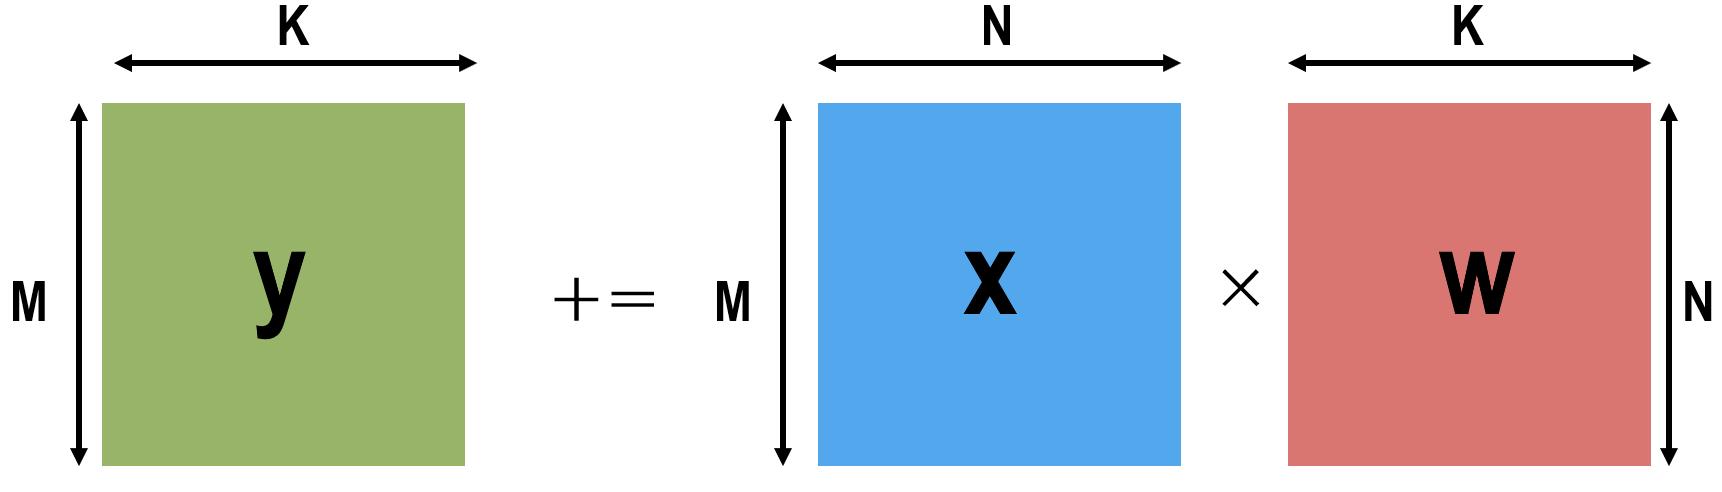
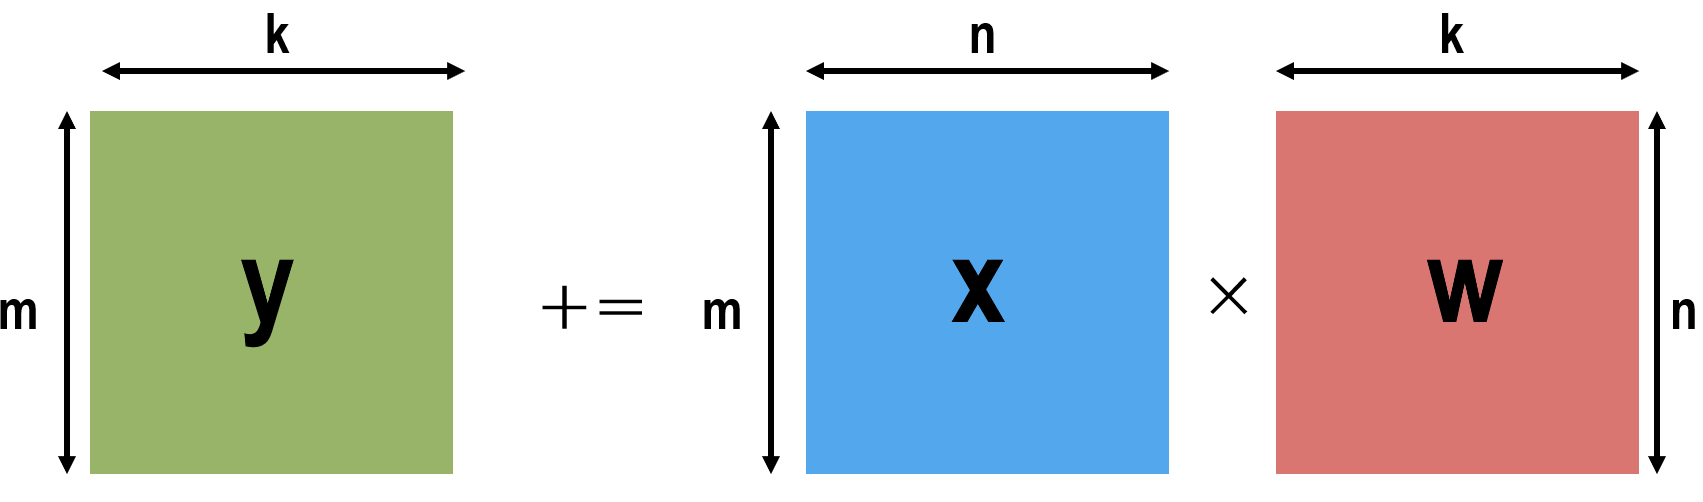
[SoftHier] update softhier exe

diff --git a/README.md b/README.md
@@ -772,12 +772,14 @@ int main()
 }
 ```
 
-please try `make trace` to generate `perfetto.json` file inside the `/app/PartII/B.1`, view them on [Perfetto UI](https://ui.perfetto.dev/) in your browser.
+Please try `make trace` to generate the `perfetto.json` file inside `/app/PartII/B.1`, and view it on [Perfetto UI](https://ui.perfetto.dev/) in your browser. Below is an example screenshot. In this exercise, we only focus on the workload region in the middle. Please zoom in on this part to view the trace details.
 
-❓ **Question: What did you observe? Is the RedMule in Cluster 0 fully utilized? If not, why are the RedMule units sometimes idle? Do you have any ideas to improve the utilization?**
+<img src="imgs/trace.png">
+
+❓ **Question: What did you observe? Is the RedMule in Cluster 0 fully utilized during the workload region? If not, why are the RedMule units sometimes idle? Do you have any ideas for improving the utilization?**
 
 
-<!-- <span style="color:red">**Caution:** Exercises II-B.2, II-C.1, and II-C.2 are bonus exercises that take a deeper dive into performance engineering for tile-based many-PE architecture programming. Beginners may need > 1.5hr to solve and understand them. We strongly suggest jumping to the Part III exercises first, then returning to these exercises if you have time left.</span> -->
+<span style="color:red">**Caution:** Exercises II-B.2, II-C.1, and II-C.2 are bonus exercises that take a deeper dive into performance engineering for tile-based many-PE architecture programming. Beginners may need > 1.5hr to solve and understand them. We strongly suggest jumping to the Part III exercises first, then returning to these exercises if you have time left.</span>
 
 #### (Bonus) Exercise II-B.2:
 One common trick is **double buffering**. This means allocating two buffers in L1 so that while one buffer is being used by the RedMule engine for matrix multiplication, the other can be filled with the next tile via DMA. By overlapping DMA transfers with computation, you can improve overall utilization.
@@ -919,7 +921,7 @@ int main()
 }
 ```
 
-❓ **Question: Did you observe runtime overlap in the trace viewer? Did you manage to improve overall utilization?**
+❓ **Question: Did you observe runtime overlap in the trace viewer? Did you manage to improve overall utilization during the workload region?**
 
 
 
@@ -1043,15 +1045,15 @@ int main()
 #### (Bonus) Exercise II-C.2:
 In the II-C.1 example, although each cluster computes its own C tile, different clusters still share A and B tiles. If we ignore this data reuse, as in II-C.1, redundant accesses to HBM create significant congestion on the NoC. We need to adjust the dataflow for GEMM across multiple clusters.
 
-**Question: Do you remember the `systolic execution` you learned in the lecture? Does this dataflow pattern give you any ideas for optimization?**
+❓ **Question: Do you remember the `systolic execution` you learned in the lecture? Does this dataflow pattern give you any ideas for optimization?**
 
 In `/app/PartII/C.2`, we prepared example code for dataflow optimization. Try to run it and view the trace. In the code, we use `remote_cid(cluster_id, offset)` to access the L1 memory space of remote clusters.
 
-**Question: How much speedup does it bring compared to Exercise II-C.1? Can you draw its dataflow design? What is the key to improving the performance?**
+❓ **Question: How much speedup does it bring compared to Exercise II-C.1? Can you draw its dataflow design? What is the key to improving the performance?**
 
 In `/app/PartII/C.2.opt`, we further optimize the code with a small change. Try to run it and view the trace.
 
-**Question: Does it further improve the performance? Why?**
+❓ **Question: Does it further improve the performance? Why?**
 
 
 